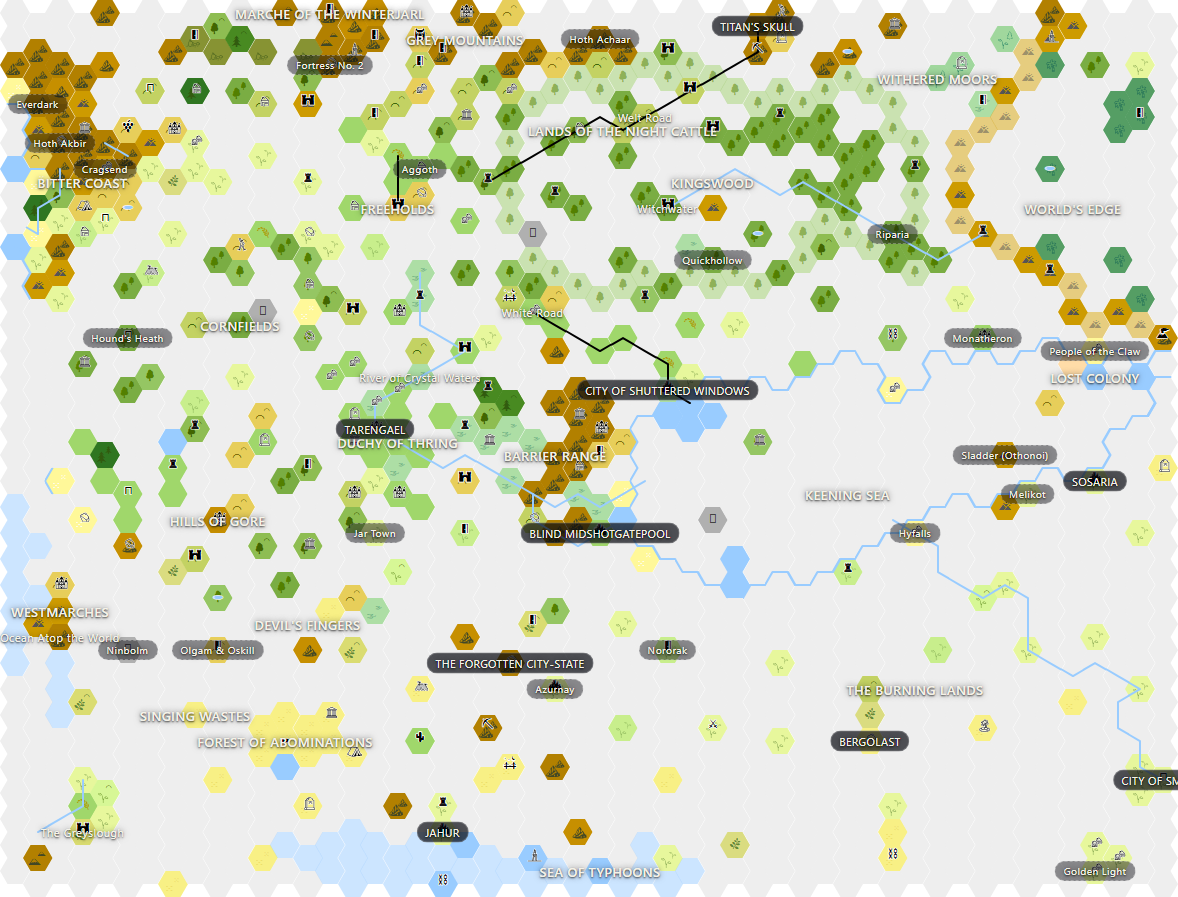
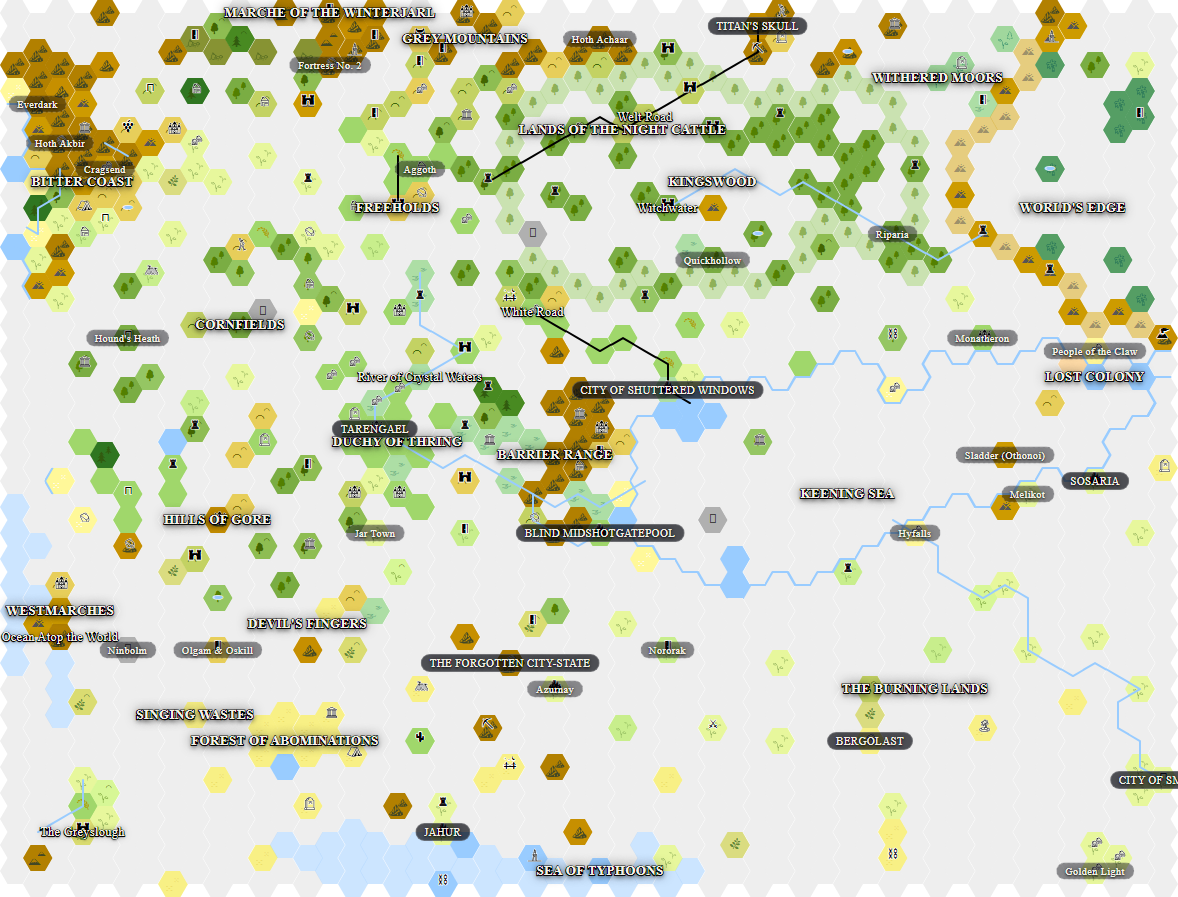
map

diff --git a/docs/scripts/render_world_map_png.py b/docs/scripts/render_world_map_png.py
@@ -70,7 +70,9 @@ def parse_simple_yaml_list(path: Path) -> list[dict[str, object]]:
     return labels
 
 
-def build_world_map_html(hex_dir: Path, labels_path: Path) -> str:
+def build_world_map_html(
+    hex_dir: Path, labels_path: Path, stylesheet_path: Path
+) -> str:
     tiles_markup = []
     for col in range(COLS):
         col_mod = col % 2
@@ -110,78 +112,23 @@ def build_world_map_html(hex_dir: Path, labels_path: Path) -> str:
     width = HEX_WIDTH + HEX_X_STEP * (COLS - 1)
     height = HEX_HEIGHT + HEX_Y_STEP * (ROWS - 1) + HEX_Y_OFFSET
 
+    stylesheet_uri = stylesheet_path.as_uri()
+
     return f"""
 <!DOCTYPE html>
 <html lang=\"en\">
   <head>
     <meta charset=\"utf-8\" />
     <title>World Map Render</title>
-    <style>
-      body {{
-        margin: 0;
-        background: #ffffff;
-        font-family: system-ui, -apple-system, BlinkMacSystemFont, "Segoe UI", sans-serif;
-      }}
-      .world-map {{
-        position: relative;
-        width: {width}px;
-        height: {height}px;
-      }}
-      .world-map__tile {{
-        position: absolute;
-        width: {HEX_WIDTH}px;
-        height: {HEX_HEIGHT}px;
-      }}
-      .world-map__tile img {{
-        display: block;
-        width: 100%;
-        height: auto;
-      }}
-      .world-map__labels {{
-        position: absolute;
-        inset: 0;
-        pointer-events: none;
-      }}
-      .world-map__label {{
-        position: absolute;
-        transform: translate(-50%, -50%);
-        color: #f5f2e8;
-        font-size: 0.7rem;
-        letter-spacing: 0.04em;
-        text-shadow:
-          0 1px 2px rgba(0, 0, 0, 0.75),
-          0 0 6px rgba(0, 0, 0, 0.6);
-        white-space: nowrap;
-      }}
-      .world-map__label--region {{
-        font-size: 0.8rem;
-        font-weight: 600;
-        text-transform: uppercase;
-      }}
-      .world-map__label--city {{
-        background: rgba(10, 12, 18, 0.7);
-        border: 1px solid rgba(255, 255, 255, 0.2);
-        border-radius: 999px;
-        padding: 2px 8px;
-        letter-spacing: 0.02em;
-        text-transform: uppercase;
-      }}
-      .world-map__label--town {{
-        background: rgba(10, 12, 18, 0.45);
-        border: 1px dashed rgba(255, 255, 255, 0.3);
-        border-radius: 999px;
-        padding: 2px 8px;
-        font-size: 0.65rem;
-        letter-spacing: 0.03em;
-        text-transform: none;
-      }}
-    </style>
+    <link rel=\"stylesheet\" href=\"{stylesheet_uri}\" />
   </head>
-  <body>
-    <div class=\"world-map\">
-      {''.join(tiles_markup)}
-      <div class=\"world-map__labels\">
-        {''.join(label_markup)}
+  <body class=\"world-map-page\">
+    <div class=\"world-map-wrapper\">
+      <div class=\"world-map\" style=\"width: {width}px; height: {height}px;\">
+        {''.join(tiles_markup)}
+        <div class=\"world-map__labels\">
+          {''.join(label_markup)}
+        </div>
       </div>
     </div>
   </body>
@@ -249,6 +196,7 @@ def main() -> int:
     hex_dir = repo_root / "docs" / "assets" / "hexes"
     hex_white_dir = repo_root / "docs" / "assets" / "hex-white"
     labels_path = repo_root / "docs" / "_data" / "world-map-labels.yml"
+    stylesheet_path = repo_root / "docs" / "assets" / "style.css"
 
     if not hex_dir.exists():
         raise FileNotFoundError(f"Hex assets not found: {hex_dir}")
@@ -256,9 +204,12 @@ def main() -> int:
         raise FileNotFoundError(f"Hex assets not found: {hex_white_dir}")
     if not labels_path.exists():
         raise FileNotFoundError(f"Labels file not found: {labels_path}")
+    if not stylesheet_path.exists():
+        raise FileNotFoundError(f"Stylesheet not found: {stylesheet_path}")
 
-    html = build_world_map_html(hex_dir, labels_path)
-    white_html = build_world_map_html(hex_white_dir, labels_path)
+
+    html = build_world_map_html(hex_dir, labels_path, stylesheet_path)
+    white_html = build_world_map_html(hex_white_dir, labels_path, stylesheet_path)
     width = HEX_WIDTH + HEX_X_STEP * (COLS - 1)
     height = HEX_HEIGHT + HEX_Y_STEP * (ROWS - 1) + HEX_Y_OFFSET
     viewport_width = math.ceil(width)
